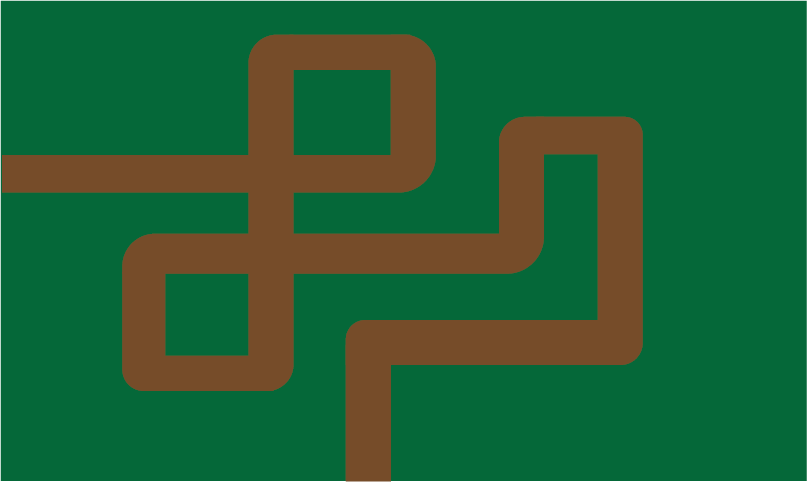
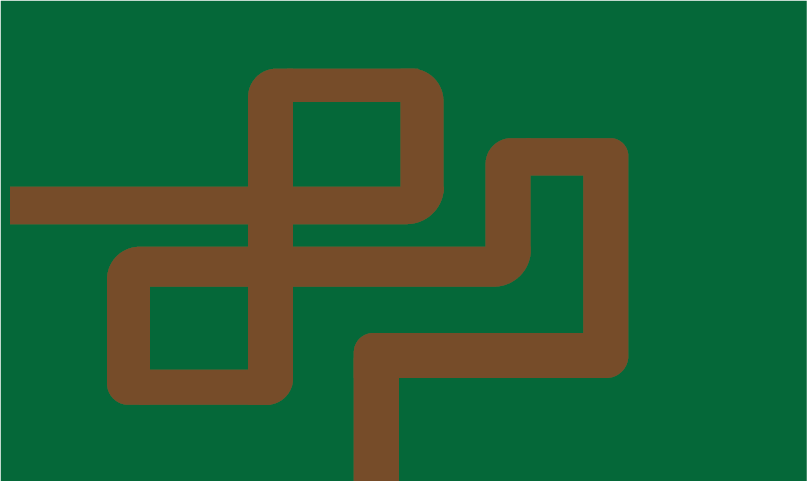
Changed all assets to mine

diff --git a/bloonsVnaturalia.html b/bloonsVnaturalia.html
@@ -8,7 +8,7 @@
   </head>
   <body>
     <div id="mainContainer">
-      <img id="bloonsMap" src="images/MonkeyMeadow_No_UI.webp" alt="" />
+      <img id="bloonsMap" src="images/Monkeys/Asset 4.png" alt="" />
       <div id="bloonsBaseContainer">
         <img id="bloonsBase" src="images/logo_green.png" alt="" />
       </div>
@@ -94,15 +94,15 @@
           let square = document.createElement("div");
           square.className = "placementSquare";
           mainContainer.appendChild(square); // Add the square to the container
-          square.style.left = 30 + "vh"; // Set the left position
-          square.style.top = 63 + "vh";
+          square.style.left = 29.3 + "vh"; // Set the left position
+          square.style.top = 62 + "vh";
         }
         for (let i = 0; i < 1; i++) {
           let square = document.createElement("div");
           square.className = "placementSquare";
           mainContainer.appendChild(square); // Add the square to the container
-          square.style.left = 55 + "vh"; // Set the left position
-          square.style.top = 23 + "vh";
+          square.style.left = 57 + "vh"; // Set the left position
+          square.style.top = 23.5 + "vh";
         }
       }
 

diff --git a/styling/style.css b/styling/style.css
@@ -780,7 +780,7 @@ a {
 
 #mainContainer {
   align-items: left;
-
+  background-color: #006838;
   height: 100vh;
   width: 100vw;
 }
@@ -810,7 +810,7 @@ a {
   flex-direction: column;
   height: 100vh;
   width: 10vw;
-  background-color: rgba(255, 255, 255, 0.3);
+
   z-index: 10;
   position: absolute;
   top: 1vh;
@@ -837,8 +837,10 @@ a {
   justify-content: center;
   height: 100px;
   width: 100px;
-  background-color: rgba(100, 100, 100, 0);
-  margin: 10px;
+  flex-direction: column;
+  margin-left: 10px;
+  margin-top: 20px;
+  margin-bottom: 20px;
   opacity: 100%;
 }
 
@@ -852,5 +854,5 @@ a {
   height: 15vh;
   width: 15vh;
   background-color: grey;
-  opacity: 0%;
+  opacity: 10%;
 }
